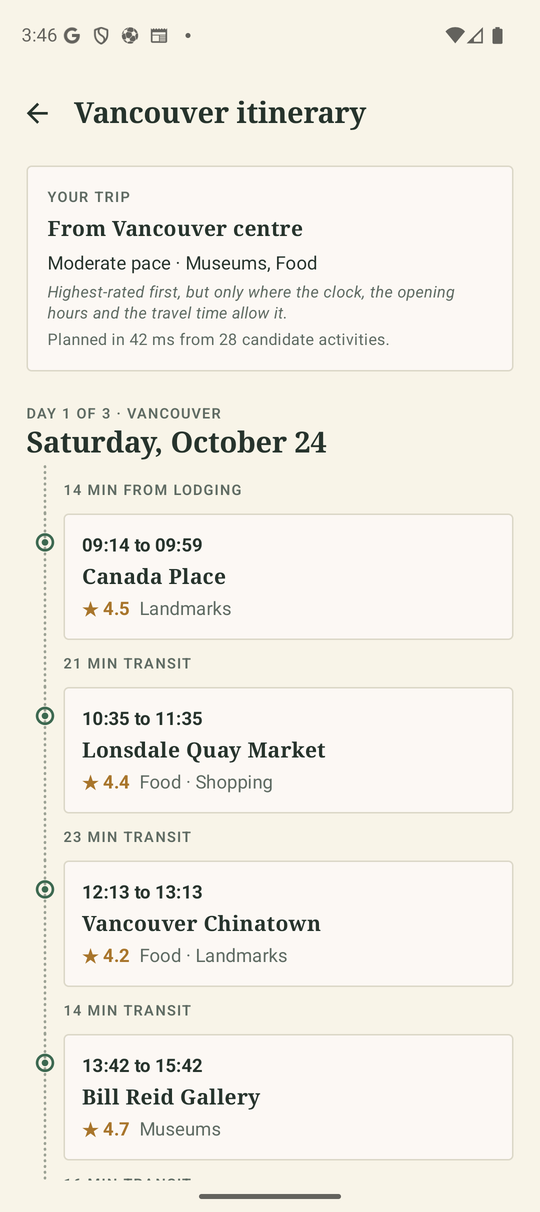
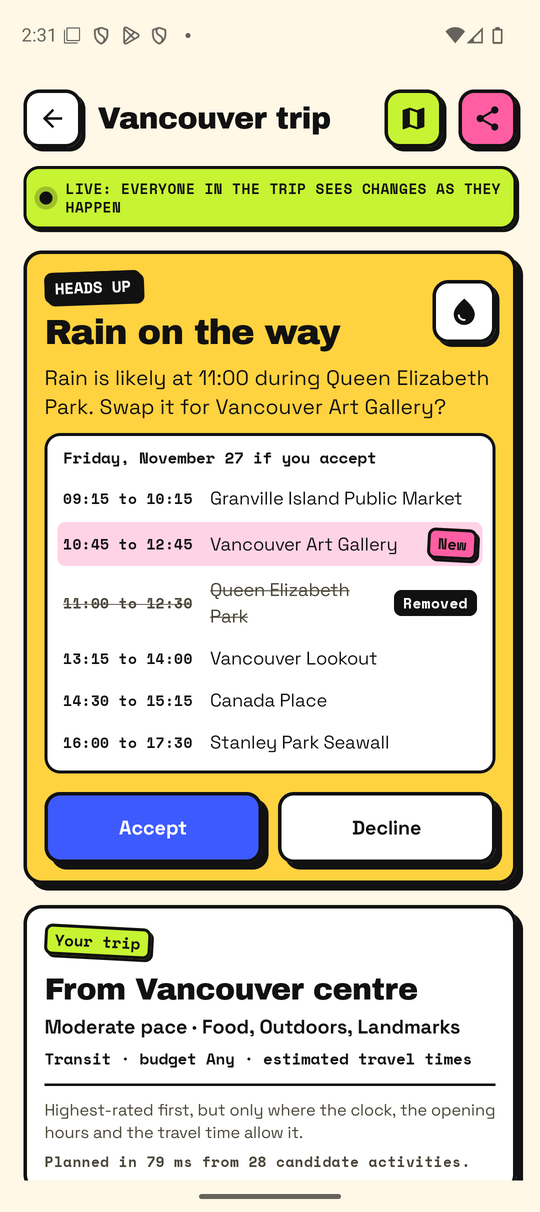
docs: show the new look in the screen mock-ups and test logs
Requirements_and_Design.md 3.6 replaces the CP1 screenshots with ten
screens of the redesigned app. Testing.md's Android test logs, and the
NFR 2 time in Code_Review.md, come from a run on the new UI; the tests
did not change.

diff --git a/documentation/Requirements_and_Design.md b/documentation/Requirements_and_Design.md
@@ -28,6 +28,7 @@
 | 2026-11-12 | 3.1, 3.2, 3.3, 3.4, 3.5, 4.5, 4.6 | Rebuilt the use cases after CP2 feedback: the diagram shows only what travellers do (system steps such as ranking a day, notifying members and the timer's checks are gone, and so is the Time actor), adds Sign Out, Edit Profile and the other half of each pair (remove, delete, decline), turns Monitor Trip Conditions into Accept or Decline Disruption Suggestion, splits Friends and the feed into F6 and F7, and uses the same verbs throughout. A trip is defined once in 3.1. Every diagram is on white, and text that only repeated a diagram (legends, counts) was cut. |
 | 2026-11-12 | 3.4, 3.5, 4.1, 4.6 | A suggestion now carries the whole proposed day with its times, and the app previews it against the day as it is before a member answers, after CP2 feedback asked to see the change first. "Dismiss" became "Decline" to match the words used everywhere else (add, remove, accept, decline). |
 | 2026-11-12 | 3.1, 4.1 | Stop times now start on a 15-minute grid (09:15 rather than 09:07), after CP2 feedback that minute-exact times looked machine-made. Rounding waits a few minutes longer, never shortens travel, and is skipped only when it would miss a closing time. |
+| 2026-11-12 | 3.6 | Redesigned every screen after CP2 feedback that the app looked plain, and replaced the CP1 screenshots with ten screens of the new design. |
 
 ---
 
@@ -278,11 +279,15 @@ Actions use the same words everywhere: travellers *add* and *remove* friends, pl
 
 ### **3.6. Screen Mock-ups**
 
-Screens from the CP1 build:
+Screens from the CP3 build, signed in as a demo traveller:
 
-| Sign in | Trip Builder | Trip | Explore & review |
-| --- | --- | --- | --- |
-| <img src="images/screen_sign_in.png" width="200"/> | <img src="images/screen_trip_builder.png" width="200"/> | <img src="images/screen_trip.png" width="200"/> | <img src="images/screen_explore.png" width="200"/> |
+| Sign in | Trips | Trip Builder | Trip, with a suggestion | Trip map |
+| --- | --- | --- | --- | --- |
+| <img src="images/screen_sign_in.png" width="150"/> | <img src="images/screen_trips.png" width="150"/> | <img src="images/screen_trip_builder.png" width="150"/> | <img src="images/screen_trip.png" width="150"/> | <img src="images/screen_trip_map.png" width="150"/> |
+
+| Explore & review | Group | Feed | Shared trip | Profile |
+| --- | --- | --- | --- | --- |
+| <img src="images/screen_explore.png" width="150"/> | <img src="images/screen_group.png" width="150"/> | <img src="images/screen_feed.png" width="150"/> | <img src="images/screen_shared_trip.png" width="150"/> | <img src="images/screen_profile.png" width="150"/> |
 
 ### **3.7. Non-Functional Requirements**
 

diff --git a/documentation/Testing.md b/documentation/Testing.md
@@ -27,6 +27,7 @@
 | 2026-11-12 | 2.1.1 | Added tests for the peer review's code-review fixes: Google unavailable at sign-in, reviews and joins sent twice at once, partial city searches, and a failed venue check. |
 | 2026-11-12 | 2.1.1, 3, 4.2 | Added what the peer review's test review asked for: expired-session and 7-day-session tests, the order of the reviews list, `parsePort`, NFR 3 while Google fails, an app test timing NFR 2 on the phone, Plan Trip split into one test per scenario, a unique review per run, and comments on the unit tests. |
 | 2026-11-12 | 2.3, 2.4, 2.5, 3.2 | Completed for CP3: new coverage screenshots and the reasons for every uncovered line, and this commit's NFR logs. The text coverage tables were removed, since they only repeated the screenshots. |
+| 2026-11-12 | 3.2, 4.2 | The Android test logs come from the redesigned app: the tests find the same tags and labels, so none changed. |
 
 ---
 
@@ -203,12 +204,12 @@ Without mocks, the external service clients are not reached: Google Places (`pla
 
     com.example.cpen321application.nfr.LiveUpdateRenderTest:.
 
-    Time: 15.092
+    Time: 14.861
 
     OK (1 test)
 
     $ adb logcat -d -s NFR:I
-    I NFR     : Live update on screen after 185 ms (limit 2000 ms)
+    I NFR     : Live update on screen after 191 ms (limit 2000 ms)
     ```
 
 - **NFR 3: Bounded Google Places usage**
@@ -276,7 +277,7 @@ The tests find elements by stable test tags ([`ui/common/TestTags.kt`](../fronte
 
     com.example.cpen321application.e2e.PlanTripTest:......
 
-    Time: 43.573
+    Time: 41.847
 
     OK (6 tests)
     ```
@@ -308,7 +309,7 @@ The tests find elements by stable test tags ([`ui/common/TestTags.kt`](../fronte
 
     com.example.cpen321application.e2e.RateReviewActivityTest:.
 
-    Time: 18.52
+    Time: 19.914
 
     OK (1 test)
     ```
@@ -339,7 +340,7 @@ The tests find elements by stable test tags ([`ui/common/TestTags.kt`](../fronte
 
     com.example.cpen321application.e2e.ViewAdjustTripTest:.
 
-    Time: 19.278
+    Time: 17.433
 
     OK (1 test)
     ```

diff --git a/documentation/Code_Review.md b/documentation/Code_Review.md
@@ -110,7 +110,7 @@ Each change is a commit on `main` (named below by its subject) with tests.
 | Approximate location cannot tick stops off within 100 m | Stops are ticked off only from precise location, and the map says so. | same commit |
 | The generate end-to-end test is one large test | Six tests: the main success scenario and one per failure scenario. | "test: split Plan Trip, make reviews unique, and time live updates on the phone" |
 | The review end-to-end test can pass on an earlier run's review | Each run writes a review with its run time in it. | same commit |
-| NFR 2 is not checked on the phone | An instrumented test times a change made elsewhere until it is gone from the open trip screen (at most 2 s; 185 ms in our run). | same commit; Testing.md section 3 |
+| NFR 2 is not checked on the phone | An instrumented test times a change made elsewhere until it is gone from the open trip screen (at most 2 s; 191 ms in our run). | same commit; Testing.md section 3 |
 | No test for an expired session or the 7-day lifetime | Both added. | "test: add the back-end tests the peer review asked for"; `backend/tests/no-mock/auth.test.ts` |
 | The reviews list order (verified first, then newest) is not checked | Checked. | same commit; `backend/tests/no-mock/reviews.test.ts` |
 | The Places-usage NFR test assumes Google works | Added an outage scenario. It showed that an expired city retried Google on every request, so a failed refresh now waits an hour before trying again. | same commit; `backend/tests/nfr/placesUsage.test.ts` |
